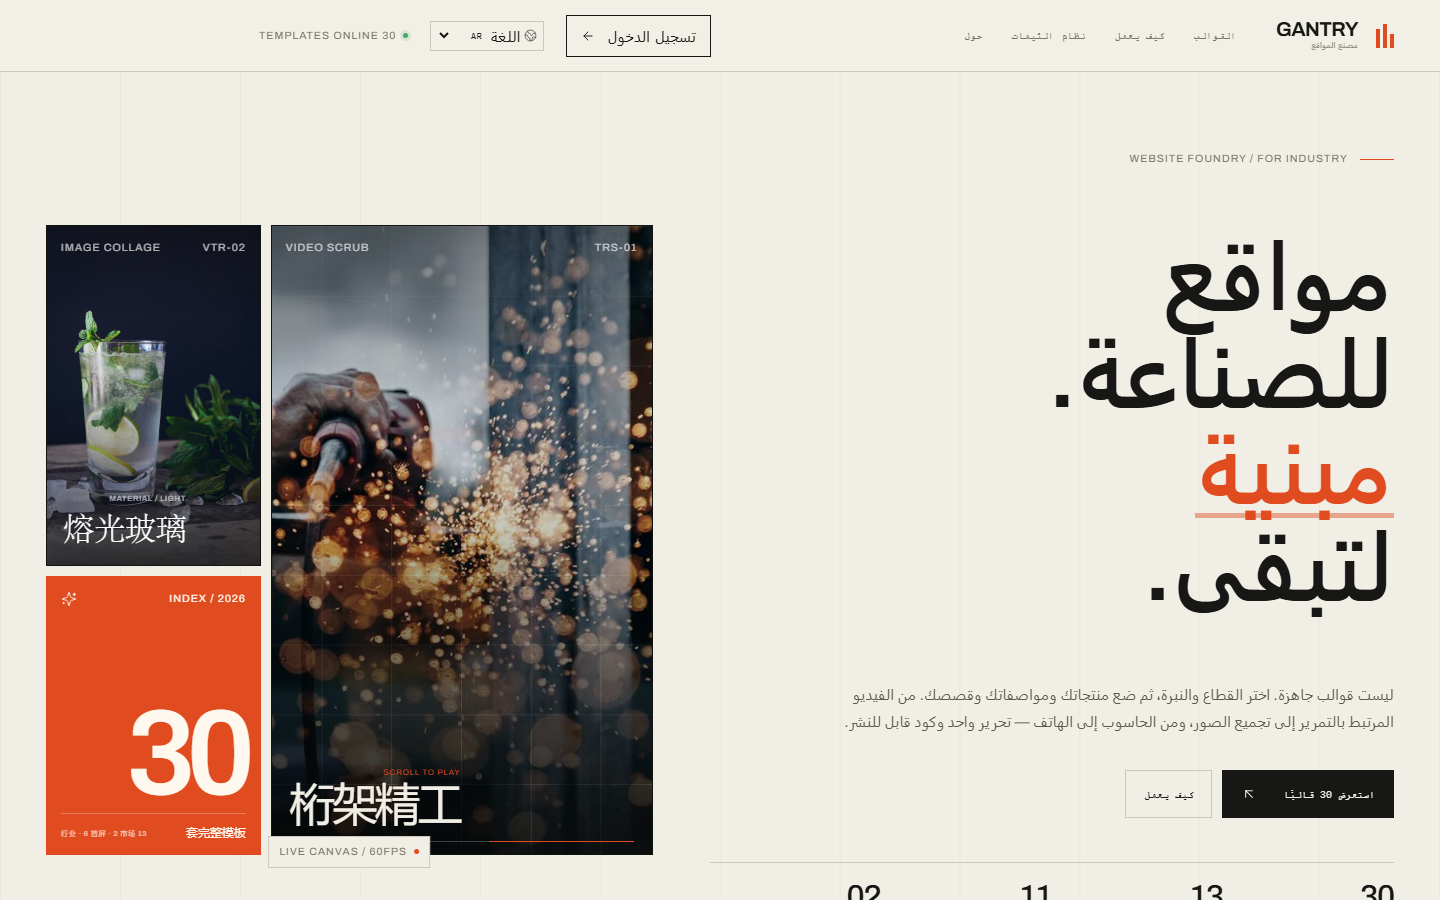
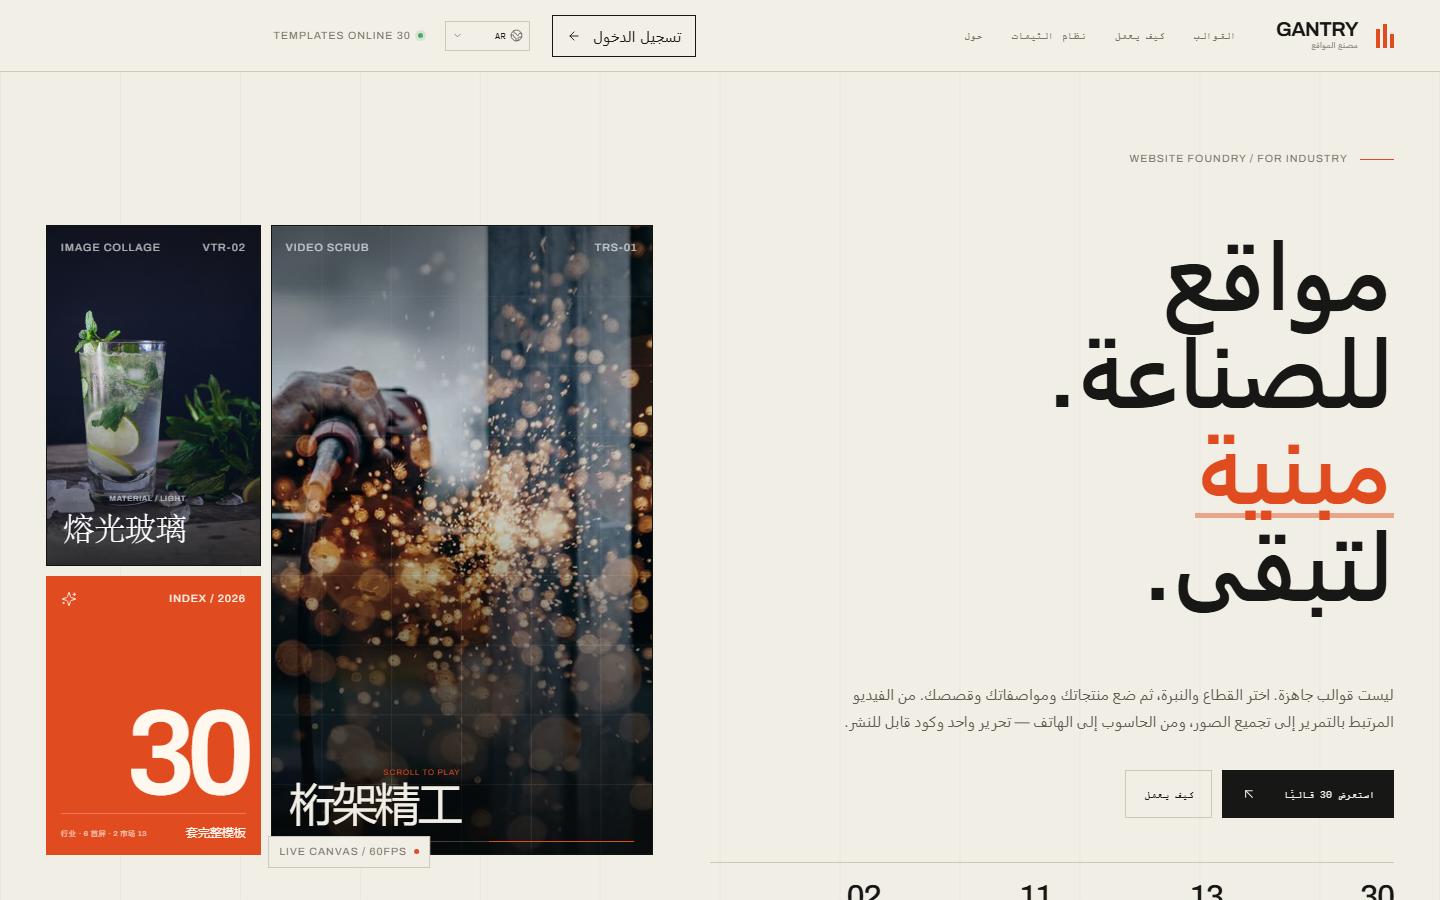
fix(i18n): align locale menu options and animate the picker
Replace the native select with an accessible listbox so option rows share one column grid regardless of script direction. Keep the trigger width stable across locale names, anchor the menu to the writing direction, and animate the panel with reduced-motion support. Refresh Arabic screenshots and verified counts.

diff --git a/frontend/src/components/i18n/LocaleSwitcher.tsx b/frontend/src/components/i18n/LocaleSwitcher.tsx
@@ -1,4 +1,5 @@
-import { Globe2 } from 'lucide-react';
+import { useEffect, useRef, useState } from 'react';
+import { Check, ChevronDown, Globe2 } from 'lucide-react';
 import { useTranslation } from 'react-i18next';
 import { changeLocale, i18n } from '../../i18n';
 import { LOCALES, resolveLocale, type LocaleCode } from '../../i18n/locales';
@@ -10,29 +11,82 @@ interface LocaleSwitcherProps {
 
 export function LocaleSwitcher({ compact = false, onChange }: LocaleSwitcherProps) {
   const { t } = useTranslation();
+  const [open, setOpen] = useState(false);
+  const rootRef = useRef<HTMLDivElement>(null);
   const current = resolveLocale(i18n.language);
+  const currentLocale = LOCALES.find((locale) => locale.code === current) ?? LOCALES[0];
+
+  useEffect(() => {
+    if (!open) return;
+    const onPointerDown = (event: MouseEvent) => {
+      if (!rootRef.current?.contains(event.target as Node)) setOpen(false);
+    };
+    const onKeyDown = (event: KeyboardEvent) => {
+      if (event.key === 'Escape') setOpen(false);
+    };
+    document.addEventListener('mousedown', onPointerDown);
+    document.addEventListener('keydown', onKeyDown);
+    return () => {
+      document.removeEventListener('mousedown', onPointerDown);
+      document.removeEventListener('keydown', onKeyDown);
+    };
+  }, [open]);
 
   const handleChange = (value: string) => {
     const next = resolveLocale(value);
     void changeLocale(next);
     onChange?.(next);
+    setOpen(false);
   };
 
   return (
-    <label className={`locale-switcher${compact ? ' is-compact' : ''}`}>
+    <div
+      className={`locale-switcher${compact ? ' is-compact' : ''}${open ? ' is-open' : ''}`}
+      ref={rootRef}
+    >
       <Globe2 size={13} strokeWidth={1.6} aria-hidden="true" />
-      <span className="sr-only">{t('common.language')}</span>
-      <select
+      <button
+        type="button"
+        className="locale-trigger"
         aria-label={t('common.language')}
-        value={current}
-        onChange={(event) => handleChange(event.target.value)}
+        aria-haspopup="listbox"
+        aria-expanded={open}
+        onClick={() => setOpen((value) => !value)}
       >
-        {LOCALES.map((locale) => (
-          <option key={locale.code} value={locale.code} lang={locale.code} dir={locale.dir}>
-            {compact ? locale.code.toUpperCase() : locale.nativeName}
-          </option>
-        ))}
-      </select>
-    </label>
+        <span>{compact ? currentLocale.code.toUpperCase() : currentLocale.nativeName}</span>
+        <ChevronDown size={11} strokeWidth={1.8} aria-hidden="true" />
+      </button>
+
+      {open && (
+        <div
+          className="locale-menu"
+          role="listbox"
+          aria-label={t('common.language')}
+          dir="ltr"
+        >
+          {LOCALES.map((locale) => (
+            <button
+              key={locale.code}
+              type="button"
+              role="option"
+              aria-selected={locale.code === current}
+              className={`locale-option${locale.code === current ? ' is-selected' : ''}`}
+              onClick={() => handleChange(locale.code)}
+            >
+              <span className="locale-option-name" lang={locale.code}>
+                {locale.nativeName}
+              </span>
+              <span className="locale-option-meta mono">
+                {locale.code.toUpperCase()}
+                {locale.dir === 'rtl' ? ' · RTL' : ''}
+              </span>
+              {locale.code === current && (
+                <Check size={13} strokeWidth={2} aria-hidden="true" />
+              )}
+            </button>
+          ))}
+        </div>
+      )}
+    </div>
   );
 }

diff --git a/frontend/src/styles/shell.css b/frontend/src/styles/shell.css
@@ -3245,6 +3245,7 @@ a {
 
 /* Locale switcher */
 .locale-switcher {
+  position: relative;
   display: inline-flex;
   align-items: center;
   gap: 4px;
@@ -3253,19 +3254,99 @@ a {
   border: 1px solid var(--shell-line);
   background: transparent;
   color: var(--shell-ink);
+  z-index: 40;
 }
-.locale-switcher svg { width: 13px; height: 13px; opacity: 0.7; }
-.locale-switcher select {
-  max-width: 84px;
+.locale-switcher > svg { width: 13px; height: 13px; opacity: 0.7; flex: 0 0 auto; }
+.locale-trigger {
+  display: inline-flex;
+  align-items: center;
+  justify-content: space-between;
+  gap: 4px;
+  width: 92px;
+  min-width: 0;
+  padding: 0;
   border: 0;
   background: transparent;
   color: inherit;
   font-family: var(--mono, 'IBM Plex Mono', monospace);
   font-size: 9px;
-  letter-spacing: 0.04em;
+  letter-spacing: 0.02em;
+  text-align: start;
   cursor: pointer;
 }
-.locale-switcher select:focus-visible { outline: 2px solid var(--shell-accent); outline-offset: 2px; }
+.locale-trigger span {
+  overflow: hidden;
+  text-overflow: ellipsis;
+  white-space: nowrap;
+}
+.locale-trigger svg {
+  flex: 0 0 auto;
+  opacity: 0.55;
+  transition: transform 160ms ease;
+}
+.locale-switcher.is-open .locale-trigger svg { transform: rotate(180deg); }
+.locale-trigger:focus-visible { outline: 2px solid var(--shell-accent); outline-offset: 2px; }
+
+.locale-menu {
+  position: absolute;
+  top: calc(100% + 6px);
+  right: 0;
+  width: 224px;
+  padding: 5px;
+  border: 1px solid var(--shell-ink);
+  background: #fbf8f0;
+  box-shadow: 6px 6px 0 rgba(23, 23, 21, 0.16);
+  animation: locale-menu-in 140ms cubic-bezier(0.2, 0.8, 0.2, 1);
+  transform-origin: top right;
+}
+html[dir='rtl'] .locale-menu {
+  right: auto;
+  left: 0;
+  transform-origin: top left;
+}
+.locale-option {
+  display: grid;
+  grid-template-columns: minmax(0, 1fr) 50px 16px;
+  align-items: center;
+  gap: 8px;
+  width: 100%;
+  padding: 8px 7px;
+  border: 0;
+  border-bottom: 1px solid #e2ddd0;
+  background: transparent;
+  color: var(--shell-ink);
+  font: inherit;
+  text-align: left;
+  cursor: pointer;
+}
+.locale-option:last-child { border-bottom: 0; }
+.locale-option:hover { background: #f0ebdf; }
+.locale-option.is-selected { background: #f4e7dd; }
+.locale-option-name {
+  overflow: hidden;
+  text-overflow: ellipsis;
+  white-space: nowrap;
+  font-size: 12px;
+  text-align: left;
+}
+.locale-option-meta {
+  color: #8b8578;
+  font-size: 7px;
+  letter-spacing: 0.08em;
+  text-align: left;
+}
+.locale-option svg { color: var(--shell-accent); }
+.locale-switcher.is-compact .locale-trigger { width: 54px; }
+.locale-switcher.is-compact .locale-menu { width: 204px; }
+
+@keyframes locale-menu-in {
+  from { opacity: 0; transform: translateY(-4px) scale(0.98); }
+  to { opacity: 1; transform: translateY(0) scale(1); }
+}
+@media (prefers-reduced-motion: reduce) {
+  .locale-menu { animation: none; }
+  .locale-trigger svg { transition: none; }
+}
 
 html[dir='rtl'] body { direction: rtl; }
 html[dir='rtl'] .gallery-links { margin-left: auto; margin-right: 0; }

diff --git a/frontend/src/components/i18n/LocaleSwitcher.test.tsx b/frontend/src/components/i18n/LocaleSwitcher.test.tsx
@@ -19,11 +19,24 @@ describe('LocaleSwitcher', () => {
         <LocaleSwitcher />
       </I18nextProvider>,
     );
-    const select = screen.getByLabelText('语言');
-    expect(select.querySelectorAll('option')).toHaveLength(7);
+    await user.click(screen.getByLabelText('语言'));
+    expect(screen.getAllByRole('option')).toHaveLength(7);
 
-    await user.selectOptions(select, 'ar');
+    await user.click(screen.getByRole('option', { name: /العربية/ }));
     expect(document.documentElement.dir).toBe('rtl');
     await waitFor(() => expect(screen.getByLabelText('اللغة')).toBeInTheDocument());
+  });
+
+  it('closes the menu with Escape without changing locale', async () => {
+    const user = userEvent.setup();
+    render(
+      <I18nextProvider i18n={i18n}>
+        <LocaleSwitcher />
+      </I18nextProvider>,
+    );
+    await user.click(screen.getByLabelText('语言'));
+    await user.keyboard('{Escape}');
+    expect(screen.queryByRole('listbox')).toBeNull();
+    expect(i18n.language).toBe('zh-CN');
   });
 });

diff --git a/frontend/e2e/site.spec.ts b/frontend/e2e/site.spec.ts
@@ -90,7 +90,8 @@ test.describe('template gallery', () => {
 
   test('switches to Arabic and mirrors the interface', async ({ page }) => {
     await page.goto('/');
-    await page.locator('.locale-switcher select').selectOption('ar');
+    await page.locator('.locale-trigger').click();
+    await page.getByRole('option', { name: /العربية/ }).click();
     await expect(page.locator('html')).toHaveAttribute('dir', 'rtl');
     await expect(page.getByRole('heading', { level: 1 })).toContainText('مواقع');
     await expect(page.locator('.template-card')).toHaveCount(30);

diff --git a/docs/ACCEPTANCE.md b/docs/ACCEPTANCE.md
@@ -12,7 +12,7 @@
 - 桌面/手机双视图、滚动视频、3–4 图拼贴、组件级样式、图片焦点/独立裁剪均可用。
 - 七语言 UI（zh-CN / en / ar / tr / he / fa / ur）与 RTL；生成站点可设置 locale，导出写入 lang/dir。
 - 登录、云端项目、多页编辑、PC → 手机接力、单页 HTML / 整站 ZIP 导出已打通。
-- 前端 130 个单元测试、10 条 Playwright E2E；后端 4 条 Spring Boot 集成测试；类型检查、Lint、生产构建全部通过。
+- 前端 131 个单元测试、10 条 Playwright E2E；后端 4 条 Spring Boot 集成测试；类型检查、Lint、生产构建全部通过。
 
 尚未完成：真实源码（React/Java）生成、在线支付、手机端编辑工作台。JSON 项目源文件当前是页面文档，不是生成出来的工程源码。
 
@@ -40,7 +40,7 @@
 ```bash
 cd frontend
 npx tsc --noEmit          # 通过
-npx vitest run            # 22 files, 130 tests passed
+npx vitest run            # 22 files, 131 tests passed
 npx playwright test       # 9 passed (35.6s)
 npm run lint              # 0 error, 0 warning
 npm run build             # 1660 modules
@@ -49,9 +49,9 @@ npm run build             # 1660 modules
 前端构建体积：
 
 - 首屏 `index` 456.92 kB / gzip 152.56 kB
-- 按需 `Builder` 342.04 kB / gzip 100.27 kB，`Gallery` 19.11 kB / gzip 6.42 kB
+- 按需 `Builder` 341.98 kB / gzip 100.26 kB，`Gallery` 19.11 kB / gzip 6.42 kB
 - `ImageCropper` 3.27 kB / gzip 1.42 kB
-- CSS 94.08 kB / gzip 17.45 kB
+- CSS 95.72 kB / gzip 17.77 kB
 
 后端：
 
@@ -72,6 +72,7 @@ mvn -B test               # 4 tests, 0 failures, BUILD SUCCESS
 - `screenshots/builder-export.png`：登录提示 + 单文件 HTML + 整站 ZIP + Free/Pro
 - `screenshots/auth-dialog.png`、`builder-pages.png`、`cloud-projects.png`
 - `screenshots/gallery-ar.png`、`builder-ar.png`：阿拉伯语 RTL 界面
+- `screenshots/locale-menu.png`：语言下拉菜单的固定列宽与统一对齐
 - `screenshots/preview-mobile.png`
 
 ## 5. 已知边界

diff --git a/docs/WORKFLOW.md b/docs/WORKFLOW.md
@@ -27,7 +27,7 @@
 - 模板：30 套（国内 20 + 国际 10），13 个行业，11 种风格，18 套主题，2 个市场。
 - 首屏：6 种叙事（video-scrub / image-collage / split-editorial / full-bleed / kinetic-type / product-stage）。
 - 页面区块：8 类；编辑器支持就地改字、上下移动、显隐、复制、删除、撤销/重做、桌面/手机视图、主题切换、组件级样式、图片焦点/独立裁剪、多页、云端保存、HTML/ZIP/JSON 导出。
-- 质量：130 个 Vitest 测试、10 条 Playwright 用例、4 条后端 Spring Boot 测试、`tsc`、`lint`、`build` 全通过。
+- 质量：131 个 Vitest 测试、10 条 Playwright 用例、4 条后端 Spring Boot 测试、`tsc`、`lint`、`build` 全通过。
 - 已知边界：生成物是静态 HTML/ZIP，不是可二次开发的 React 工程源码；云端保存是显式按钮；支付与真实源码生成未接；手机端只用于查看/预览。
 
 ## 2. v2 范围
@@ -623,7 +623,7 @@ export interface PaymentProvider {
 
 **Task 0.1 记录基线**
 - 文件：`docs/ADR/0001-baseline.md`
-- 内容：当前 30 套模板、130 单测、10 E2E、构建体积、已知边界。
+- 内容：当前 30 套模板、131 单测、10 E2E、构建体积、已知边界。
 - 命令：`npx tsc --noEmit && npx vitest run && npx playwright test && npm run build`。
 - 验收：四项输出贴进 ADR；后续任何回归可对比。
 

diff --git a/frontend/README.md b/frontend/README.md
@@ -37,7 +37,7 @@ GANTRY 不是一个「套模板」的建站页面，而是一套把官网拆成*
 ```bash
 npm install
 npm run dev        # http://127.0.0.1:5174
-npm run test       # 130 个单元测试
+npm run test       # 131 个单元测试
 npm run test:e2e   # 10 条 Playwright 用例
 npm run build      # 类型检查 + 生产构建
 npm run lint
@@ -117,9 +117,9 @@ scripts/         截图脚本
 ## 已验证
 
 - `npx tsc --noEmit` 通过。
-- `npx vitest run`：22 个测试文件，130 个测试通过。
+- `npx vitest run`：22 个测试文件，131 个测试通过。
 - `npx playwright test`：10 条用例通过（30 套模板、市场/行业/风格筛选、手机无横向溢出、登录闸门、编辑/主题/设备/预览/导出、滚动视频、独立裁剪、30 套模板 smoke、云端多页往返）。
-- `npm run build` 通过（1660 模块；首屏 `index` 456.92 kB / gzip 152.56 kB；按需 `Builder` 342.04 kB / `Gallery` 19.11 kB；CSS 94.08 kB / gzip 17.45 kB）。
+- `npm run build` 通过（1660 模块；首屏 `index` 456.92 kB / gzip 152.56 kB；按需 `Builder` 341.98 kB / `Gallery` 19.11 kB；CSS 95.72 kB / gzip 17.77 kB）。
 - `npm run lint` 0 error / 0 warning。
 - 导出 HTML 已在 Playwright 里用 `file://` 实际打开，标题与 8 个区块均存在。
 - 云端流程已用 Playwright 注册账号、创建两页、保存、从云端重开并验证页面标题。

diff --git a/README.md b/README.md
@@ -22,7 +22,7 @@ gantry-studio/
 - 生成与导出要求登录；JSON 项目源文件带 Pro 权益接缝。
 - 七语言界面：简体中文、English、العربية、Türkçe、עברית、فارسی、اردو；阿拉伯语/希伯来语/波斯语/乌尔都语自动 RTL。
 - 生成站点可单独设置语言，导出 HTML 写入对应 `lang` 与 `dir`。
-- 前端 130 个 Vitest 单测、10 条 Playwright E2E；后端 4 条 Spring Boot 集成测试。
+- 前端 131 个 Vitest 单测、10 条 Playwright E2E；后端 4 条 Spring Boot 集成测试。
 
 ## 本地运行
 
